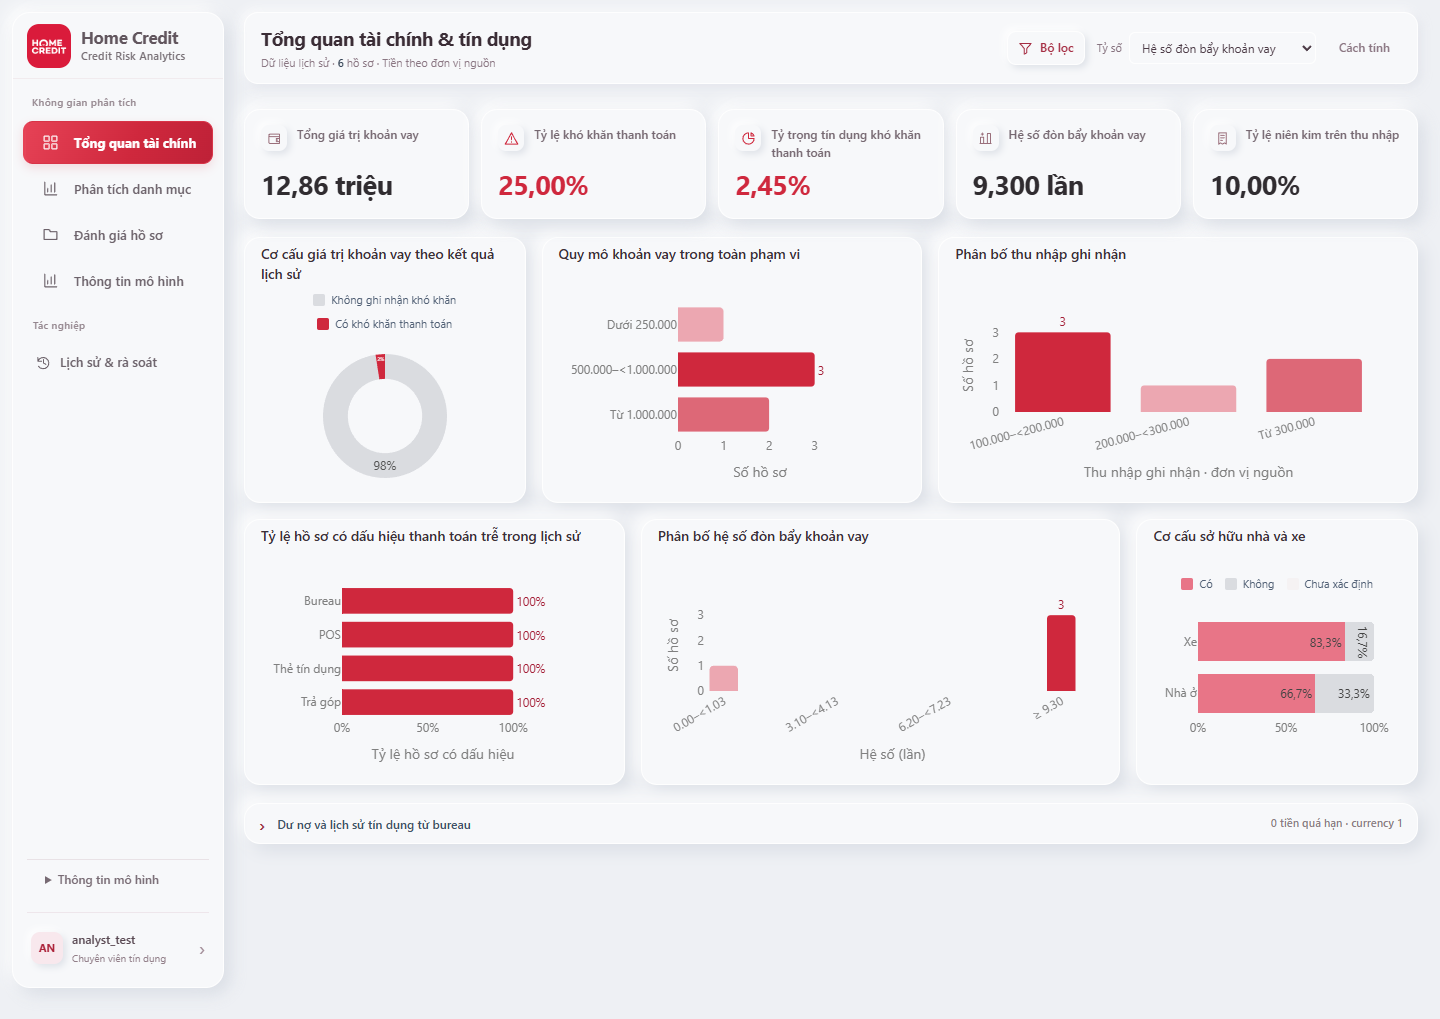
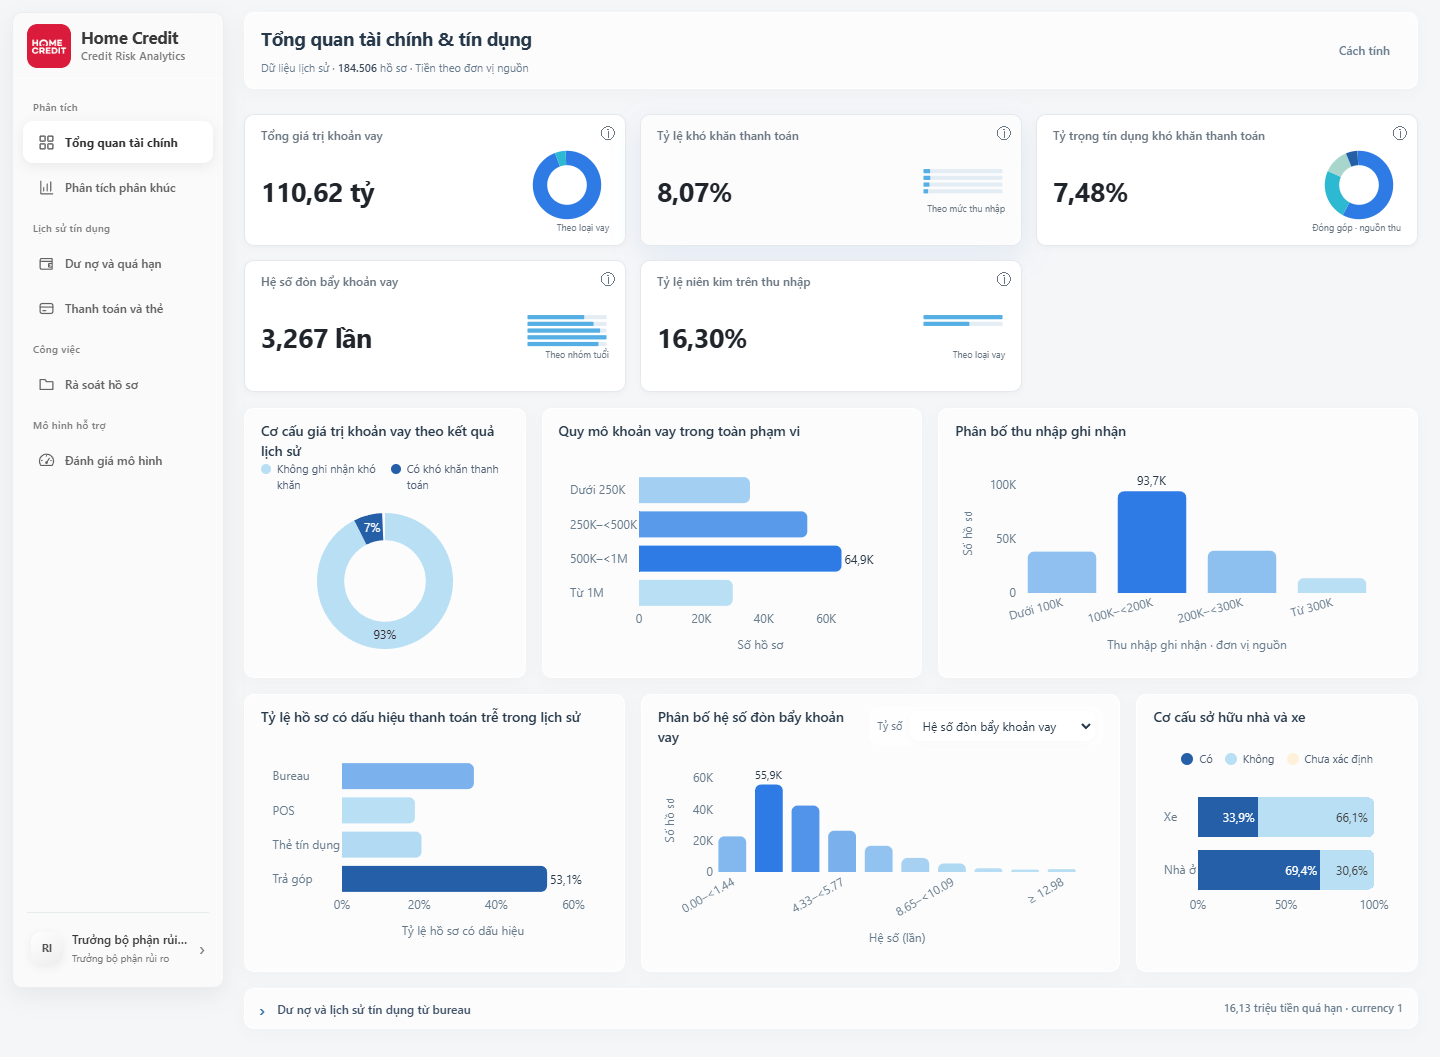
Replace outdated screenshots with current live dashboard captures

diff --git a/README.md b/README.md
@@ -20,13 +20,19 @@ Dashboard sử dụng mô hình đã lưu nên bạn có thể chạy ứng dụ
 
 ## Một số hình ảnh giao diện
 
-Các ảnh dưới đây được lưu từ lần kiểm tra giao diện với dữ liệu demo. Số liệu trên màn hình phụ thuộc vào dữ liệu và quyền truy cập của tài khoản.
+Các ảnh dưới đây được chụp trực tiếp từ ứng dụng ngày 14/11/2026, bằng tài khoản trưởng bộ phận rủi ro. Số liệu trên màn hình phụ thuộc vào dữ liệu và quyền truy cập của tài khoản.
 
 ### Tổng quan tài chính và tín dụng
 
 Trang tổng quan tập hợp các chỉ số và biểu đồ để người dùng theo dõi cơ cấu khoản vay, thu nhập và các dấu hiệu thanh toán trong lịch sử.
 
 ![Dashboard tổng quan tài chính và tín dụng với các chỉ số, cơ cấu khoản vay và biểu đồ phân bố](docs/images/dashboard-overview.png)
+
+### Rà soát hồ sơ
+
+Danh sách 200 hồ sơ demo hiển thị điểm rủi ro, cảnh báo mô hình, trạng thái rà soát và người phụ trách, cùng các công cụ tìm kiếm, lọc và phân công.
+
+![Giao diện rà soát 200 hồ sơ demo, sắp xếp theo điểm rủi ro](docs/images/applications-dashboard.png)
 
 ### Thông tin và đánh giá mô hình
 
